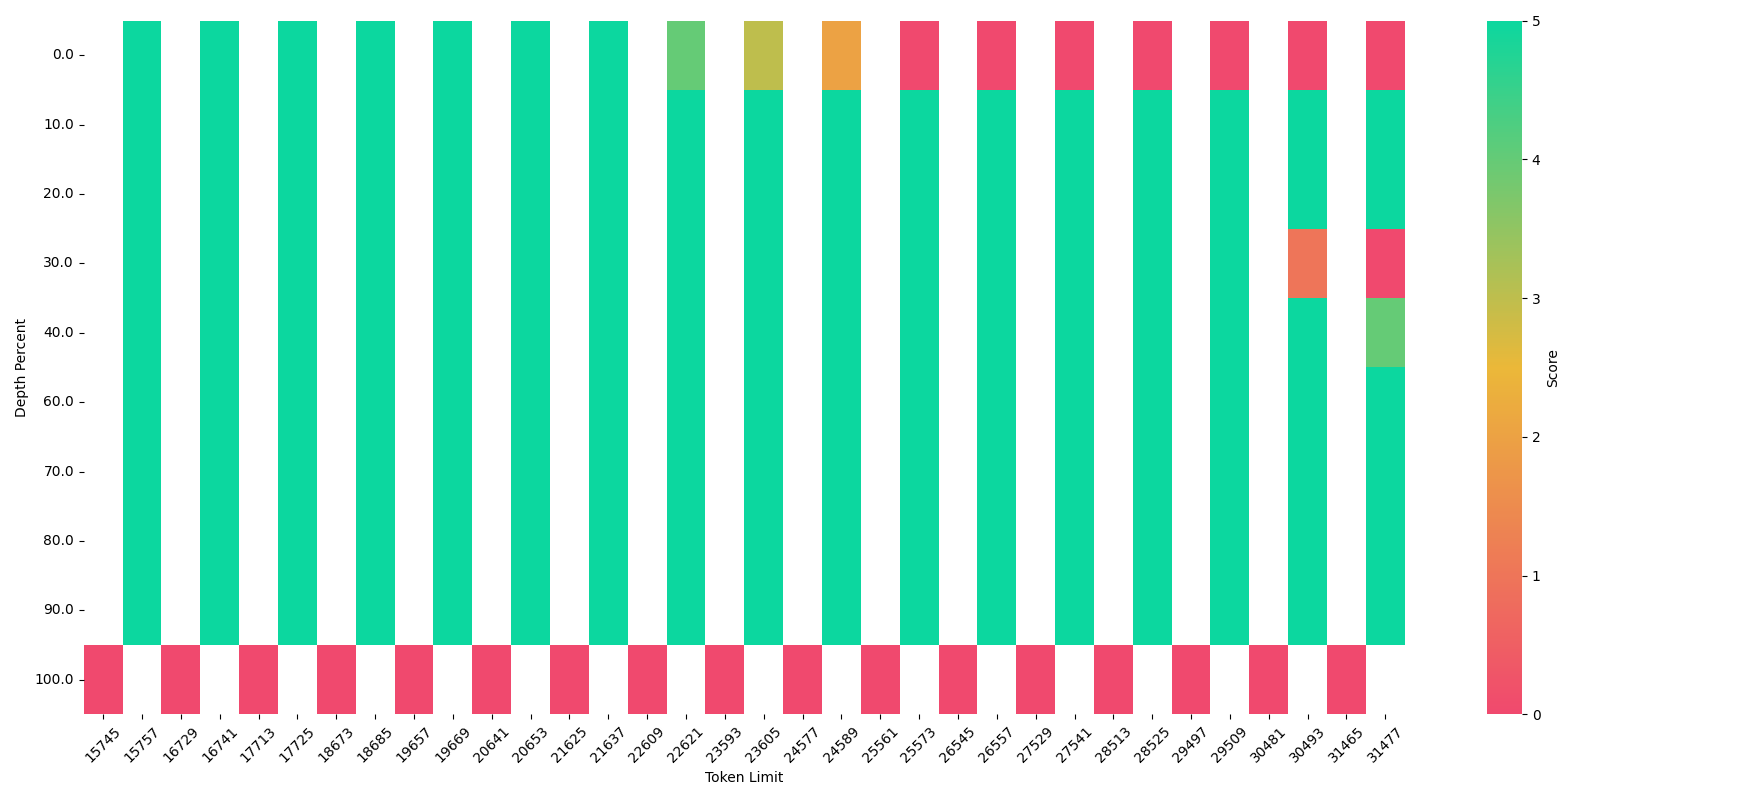
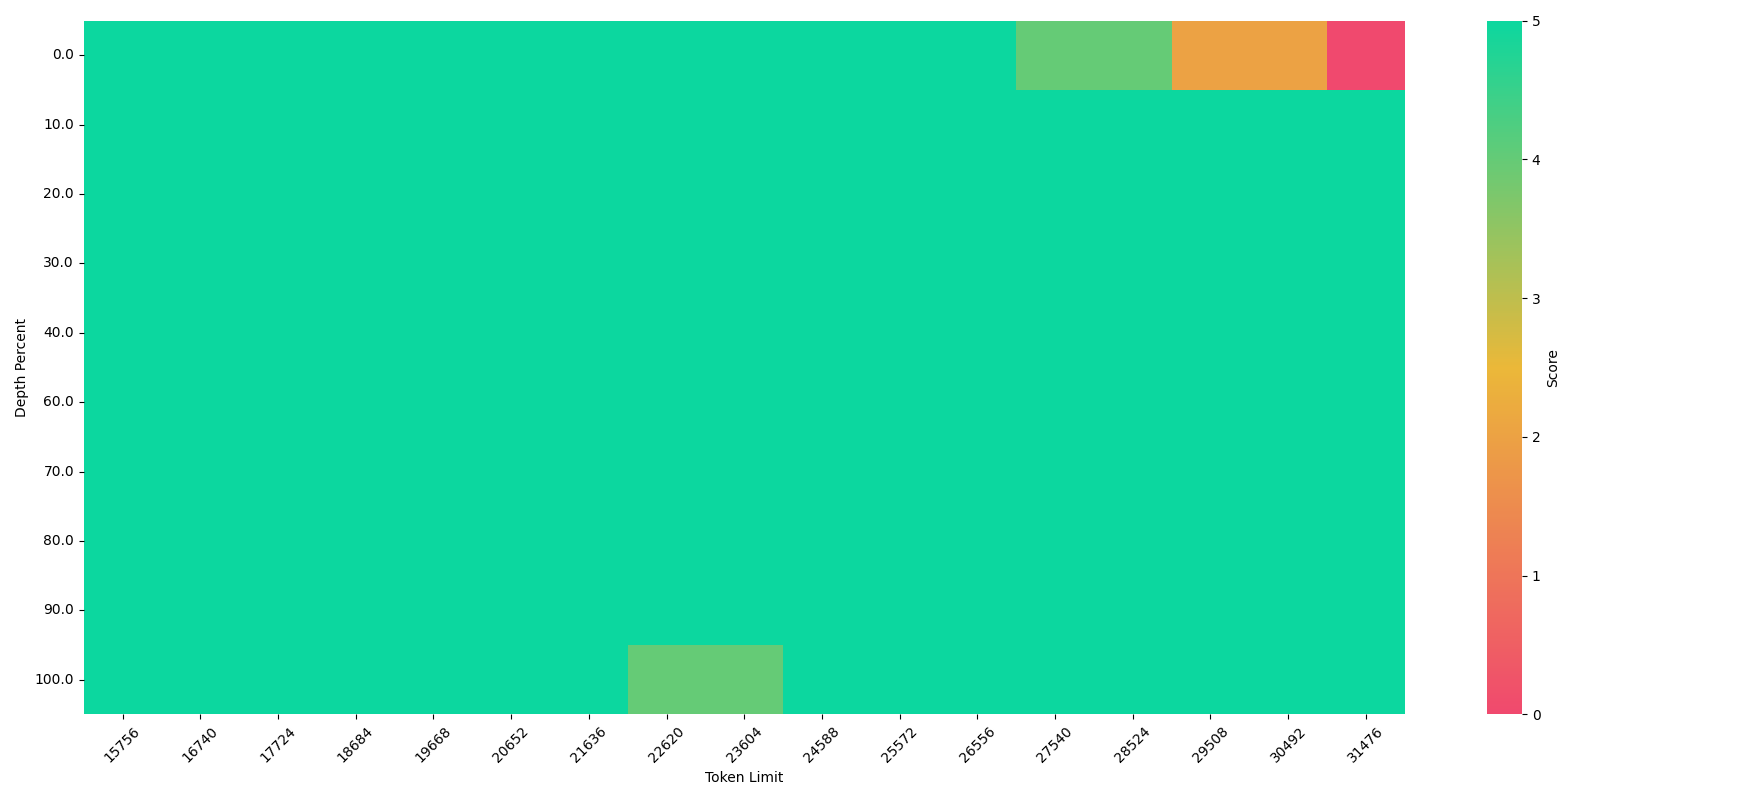
results for rwkv7 1b5 64k tune niah

diff --git a/pass_key.py b/pass_key.py
@@ -153,7 +153,7 @@ def main(args):
     print("base model", args.base_model)
 
     # Load model and tokenizer
-    model = AutoModelForCausalLM.from_pretrained('fla-hub/rwkv7-1.5B-world', trust_remote_code=True)
+    model = AutoModelForCausalLM.from_pretrained('m8than/rwkv7-1b5-128k', trust_remote_code=True)
     model = model.to('cuda')
     tokenizer = AutoTokenizer.from_pretrained('fla-hub/rwkv7-1.5B-world', trust_remote_code=True)
 
@@ -234,7 +234,7 @@ def main(args):
     plt.xticks(rotation=45)
     plt.yticks(rotation=0)
     plt.tight_layout()
-    plt.savefig(f"data/heatmap_tokenized_{args.max_tokens}_rwkv7_1b5_base.png")
+    plt.savefig(f"data/heatmap_tokenized_{args.max_tokens}_rwkv7_1b5_64k.png")
 
 if __name__ == "__main__":
     args = parse_config()
